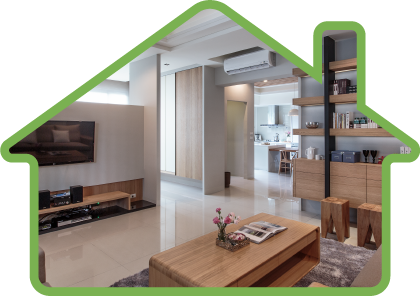
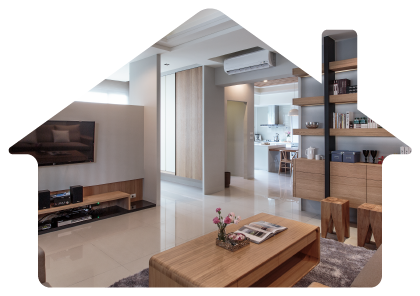
產品與無線生活區塊對調後調整樣式與圖片

Changed region(s): [[0.0, 0.0, 1.0, 1.0]]

diff --git a/templates/project/source/sass/page/_home.scss b/templates/project/source/sass/page/_home.scss
@@ -643,11 +643,13 @@ section {
 }
 .ss {
 	font-size: .75em;
-	color: $white;
+	color: $black-60;
 	padding: 15px 20px;
+	margin-top: 10px;	
 	// margin-bottom: -40px;
 	@include border-radius(5px);
-	border: 1px solid rgba($white,.5);
+	color: $black-60;
+	border: 1px solid $black-20;
 	@extend %center-block;
 	width: 50%;
 }
